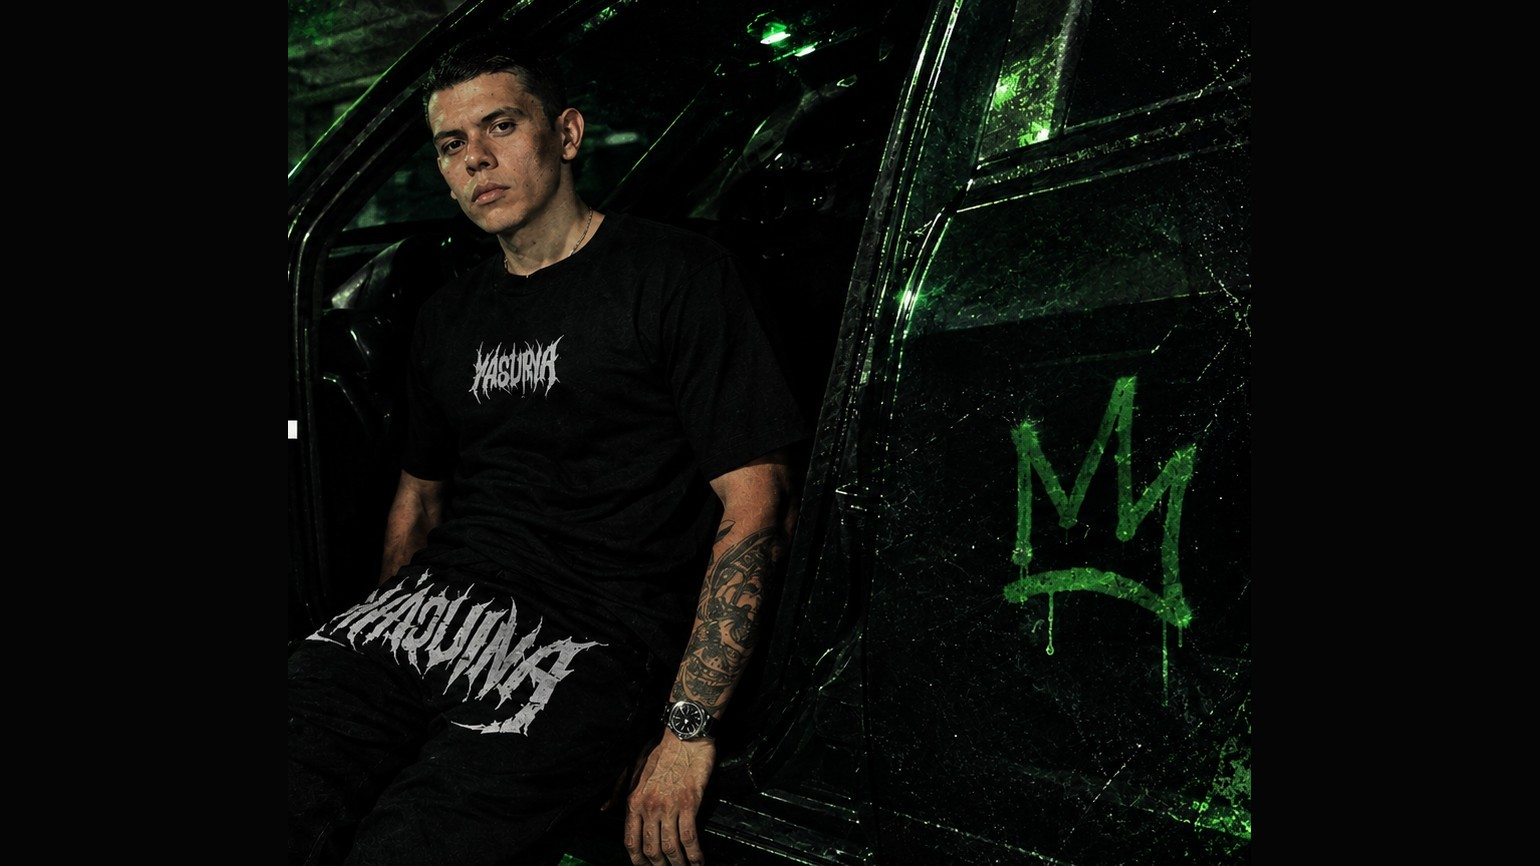
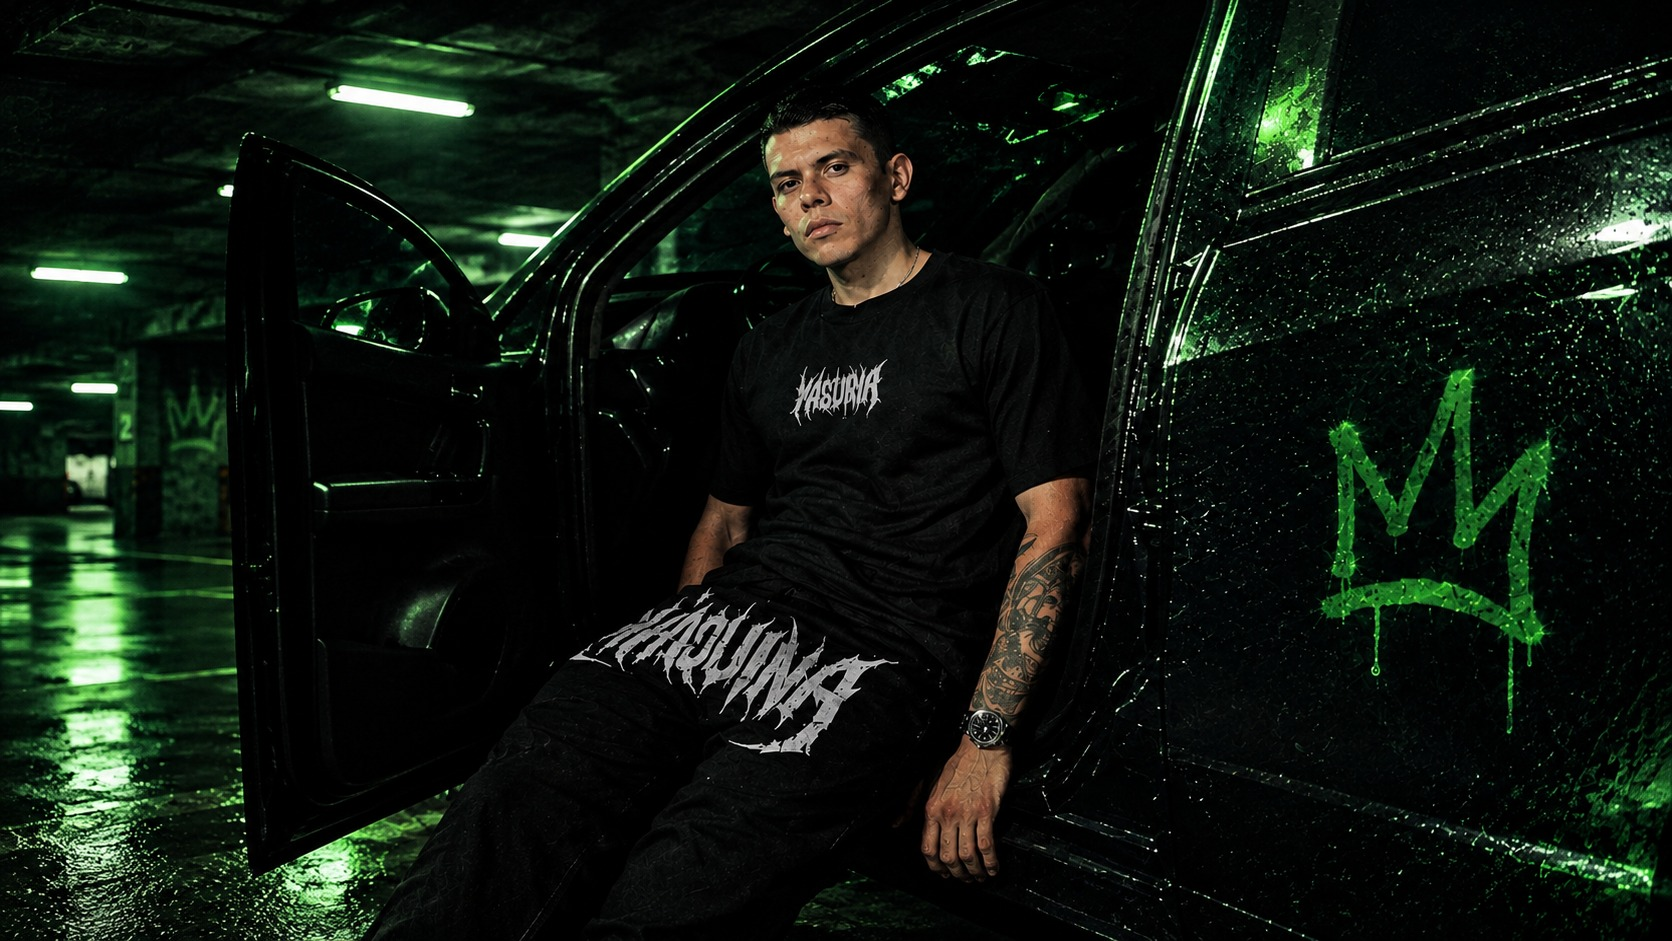
act

diff --git a/css/maquina-ui.css b/css/maquina-ui.css
@@ -833,7 +833,7 @@ body{
 .yd-login-btn:hover svg{transform:translateX(3px);}
 
 @media (max-width:1024px){
-  .yd-login-media-fg{object-fit:cover;object-position:22% center;}
+  .yd-login-media-fg{object-fit:cover;object-position:42% center;}
   .yd-login-overlay{
     background:
       linear-gradient(0deg,rgba(5,5,5,.97) 0%,rgba(5,5,5,.9) 38%,rgba(5,5,5,.45) 62%,rgba(5,5,5,.15) 100%),

diff --git a/registro.html b/registro.html
@@ -18,7 +18,7 @@
 <meta name="twitter:card" content="summary_large_image">
 <meta name="theme-color" content="#0a0a0a">
 <link rel="stylesheet" href="css/estilos.css?v=4">
-<link rel="stylesheet" href="css/maquina-ui.css?v=5">
+<link rel="stylesheet" href="css/maquina-ui.css?v=6">
 <style>
 /* ---- personaje estático (sin animación) ---- */
 .auth-figure svg{ overflow:visible; }

diff --git a/login - copia.html b/login - copia.html
@@ -18,7 +18,7 @@
 <meta name="twitter:card" content="summary_large_image">
 <meta name="theme-color" content="#0a0a0a">
 <link rel="stylesheet" href="css/estilos.css?v=4">
-<link rel="stylesheet" href="css/maquina-ui.css?v=5">
+<link rel="stylesheet" href="css/maquina-ui.css?v=6">
 </head>
 <body class="yd-login-body">
 

diff --git a/login.html b/login.html
@@ -18,7 +18,7 @@
 <meta name="twitter:card" content="summary_large_image">
 <meta name="theme-color" content="#0a0a0a">
 <link rel="stylesheet" href="css/estilos.css?v=4">
-<link rel="stylesheet" href="css/maquina-ui.css?v=5">
+<link rel="stylesheet" href="css/maquina-ui.css?v=6">
 </head>
 <body class="yd-login-body">
 

diff --git a/producto.html b/producto.html
@@ -13,7 +13,7 @@
 <meta property="og:image" content="https://maquina.com/img/portada.jpg">
 <meta name="theme-color" content="#0a0a0a">
 <link rel="stylesheet" href="css/estilos.css?v=4">
-<link rel="stylesheet" href="css/maquina-ui.css?v=5">
+<link rel="stylesheet" href="css/maquina-ui.css?v=6">
 </head>
 <body>
 

diff --git a/catalogo.html b/catalogo.html
@@ -17,7 +17,7 @@
 <meta name="twitter:card" content="summary_large_image">
 <meta name="theme-color" content="#0a0a0a">
 <link rel="stylesheet" href="css/estilos.css?v=4">
-<link rel="stylesheet" href="css/maquina-ui.css?v=5">
+<link rel="stylesheet" href="css/maquina-ui.css?v=6">
 </head>
 <body>
 

diff --git a/categorias.html b/categorias.html
@@ -17,7 +17,7 @@
 <meta name="twitter:card" content="summary_large_image">
 <meta name="theme-color" content="#0a0a0a">
 <link rel="stylesheet" href="css/estilos.css?v=4">
-<link rel="stylesheet" href="css/maquina-ui.css?v=5">
+<link rel="stylesheet" href="css/maquina-ui.css?v=6">
 </head>
 <body>
 

diff --git a/favoritos.html b/favoritos.html
@@ -18,7 +18,7 @@
 <meta name="twitter:card" content="summary_large_image">
 <meta name="theme-color" content="#0a0a0a">
 <link rel="stylesheet" href="css/estilos.css?v=4">
-<link rel="stylesheet" href="css/maquina-ui.css?v=5">
+<link rel="stylesheet" href="css/maquina-ui.css?v=6">
 </head>
 <body>
 

diff --git a/index.html b/index.html
@@ -17,7 +17,7 @@
 <meta name="twitter:card" content="summary_large_image">
 <meta name="theme-color" content="#0a0a0a">
 <link rel="stylesheet" href="css/estilos.css?v=4">
-<link rel="stylesheet" href="css/maquina-ui.css?v=5">
+<link rel="stylesheet" href="css/maquina-ui.css?v=6">
 </head>
 <body>
 

diff --git a/legal.html b/legal.html
@@ -17,7 +17,7 @@
 <meta name="twitter:card" content="summary_large_image">
 <meta name="theme-color" content="#0a0a0a">
 <link rel="stylesheet" href="css/estilos.css?v=4">
-<link rel="stylesheet" href="css/maquina-ui.css?v=5">
+<link rel="stylesheet" href="css/maquina-ui.css?v=6">
 </head>
 <body>
 

diff --git a/productos.html b/productos.html
@@ -17,7 +17,7 @@
 <meta name="twitter:card" content="summary_large_image">
 <meta name="theme-color" content="#0a0a0a">
 <link rel="stylesheet" href="css/estilos.css?v=4">
-<link rel="stylesheet" href="css/maquina-ui.css?v=5">
+<link rel="stylesheet" href="css/maquina-ui.css?v=6">
 </head>
 <body>
 

diff --git a/seguimiento.html b/seguimiento.html
@@ -18,7 +18,7 @@
 <meta name="twitter:card" content="summary_large_image">
 <meta name="theme-color" content="#0a0a0a">
 <link rel="stylesheet" href="css/estilos.css?v=4">
-<link rel="stylesheet" href="css/maquina-ui.css?v=5">
+<link rel="stylesheet" href="css/maquina-ui.css?v=6">
 </head>
 <body>
 
